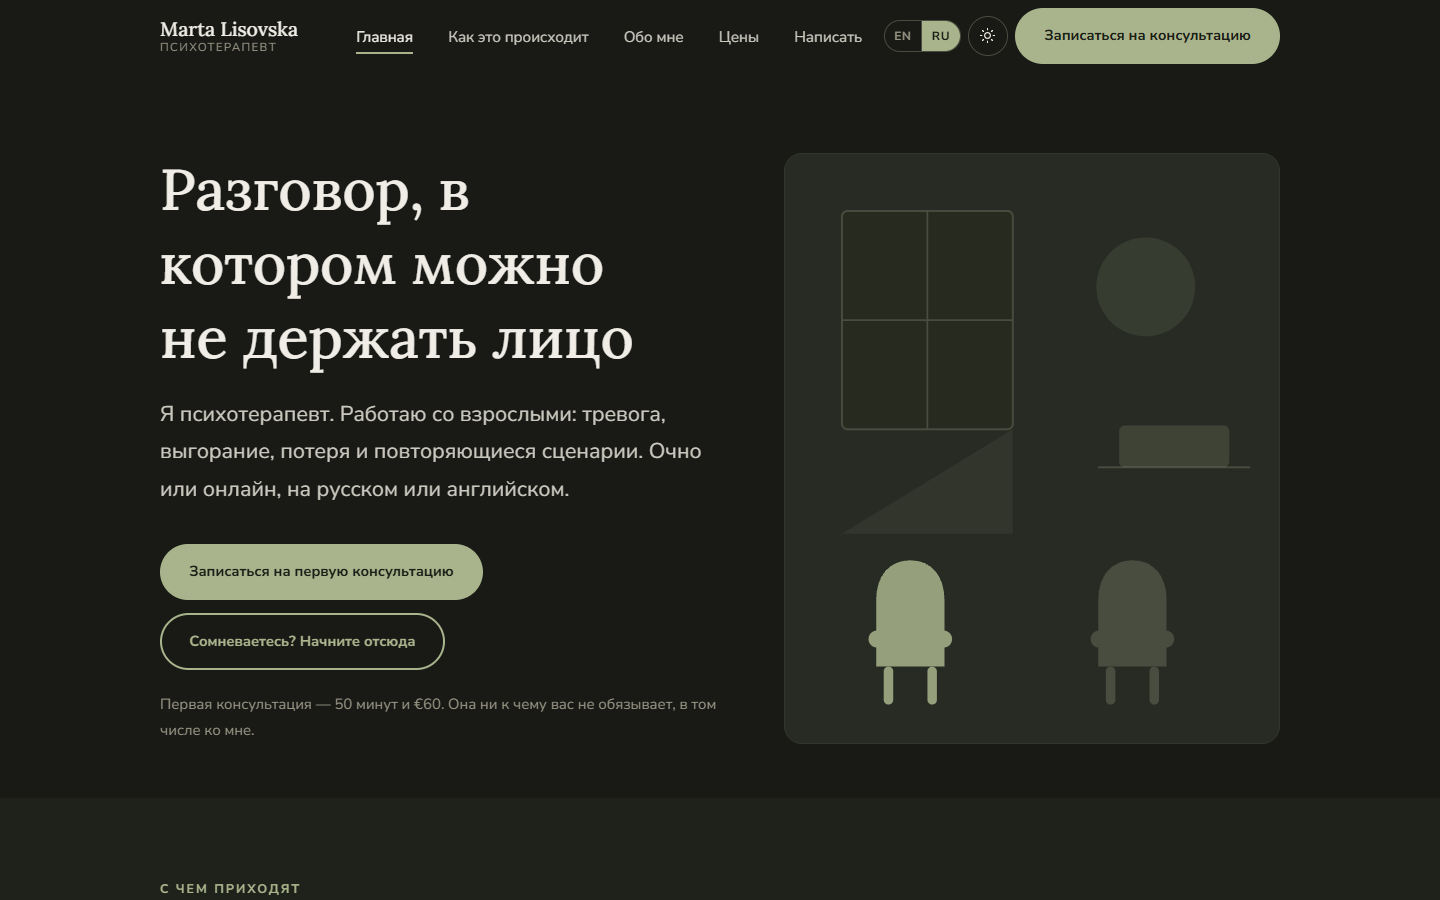
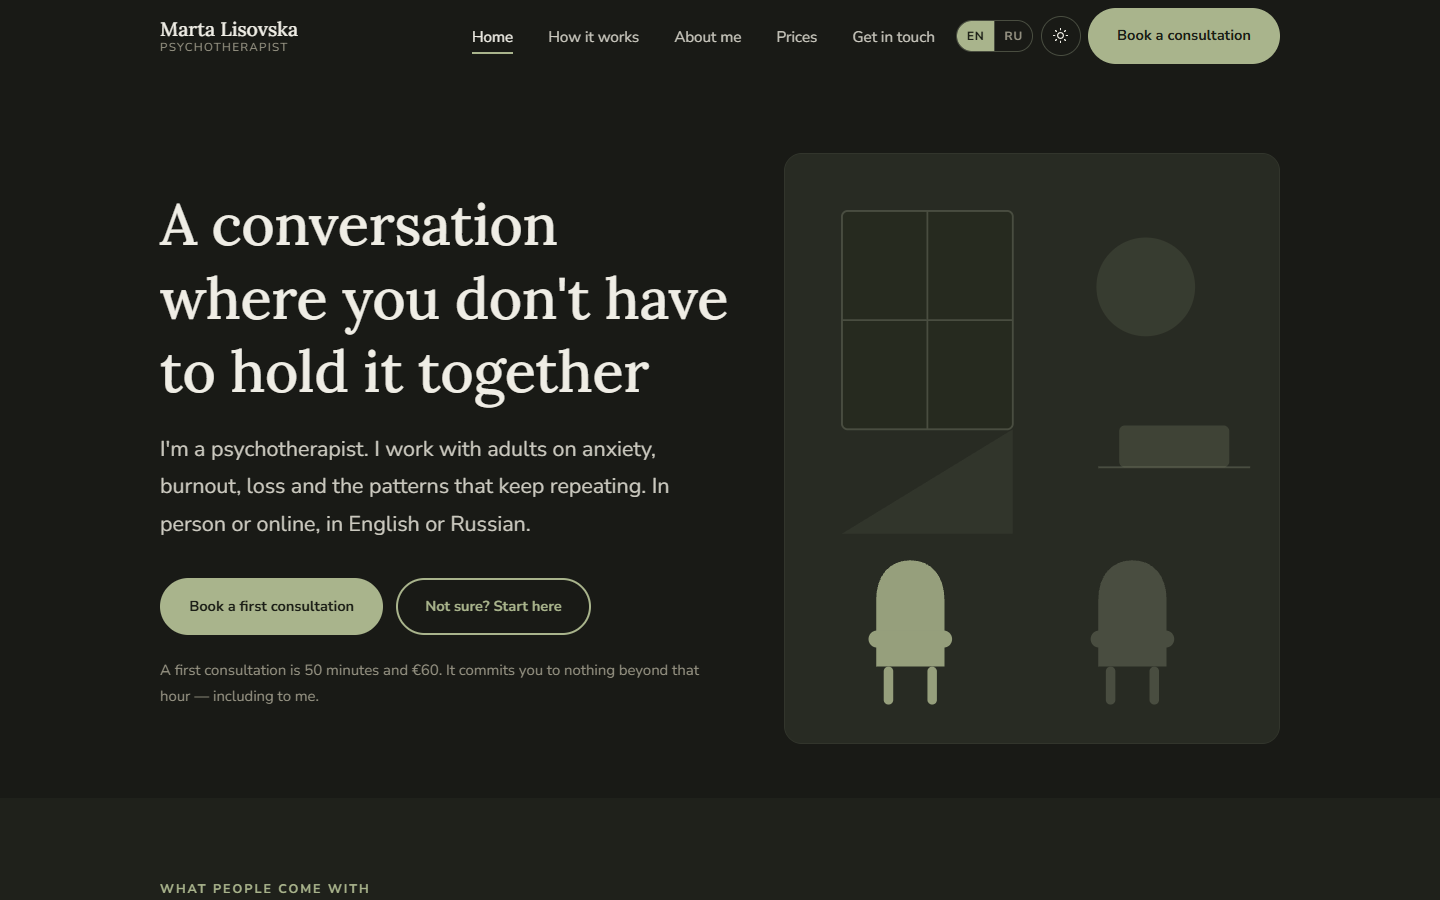
Site files, README and preview

diff --git a/about.html b/about.html
@@ -24,7 +24,7 @@
   var p = location.search.match(/[?&]lang=([a-z]{2})/i);
   if (p && langs.indexOf(p[1].toLowerCase()) > -1) lang = p[1].toLowerCase();
   if (!lang) { try { var s = localStorage.getItem('ml-lang'); if (langs.indexOf(s) > -1) lang = s; } catch (e) {} }
-  if (!lang) { lang = /^ru/i.test(navigator.language || '') ? 'ru' : 'en'; }
+  if (!lang) { lang = 'en'; }
   d.setAttribute('data-lang', lang);
   if (lang !== 'en') { d.className += ' i18n-pending'; setTimeout(function () { d.classList.remove('i18n-pending'); }, 1200); }
   try { var t = localStorage.getItem('ml-theme'); if (t) d.setAttribute('data-theme', t); } catch (e) {}

diff --git a/contact.html b/contact.html
@@ -24,7 +24,7 @@
   var p = location.search.match(/[?&]lang=([a-z]{2})/i);
   if (p && langs.indexOf(p[1].toLowerCase()) > -1) lang = p[1].toLowerCase();
   if (!lang) { try { var s = localStorage.getItem('ml-lang'); if (langs.indexOf(s) > -1) lang = s; } catch (e) {} }
-  if (!lang) { lang = /^ru/i.test(navigator.language || '') ? 'ru' : 'en'; }
+  if (!lang) { lang = 'en'; }
   d.setAttribute('data-lang', lang);
   if (lang !== 'en') { d.className += ' i18n-pending'; setTimeout(function () { d.classList.remove('i18n-pending'); }, 1200); }
   try { var t = localStorage.getItem('ml-theme'); if (t) d.setAttribute('data-theme', t); } catch (e) {}

diff --git a/index.html b/index.html
@@ -24,7 +24,7 @@
   var p = location.search.match(/[?&]lang=([a-z]{2})/i);
   if (p && langs.indexOf(p[1].toLowerCase()) > -1) lang = p[1].toLowerCase();
   if (!lang) { try { var s = localStorage.getItem('ml-lang'); if (langs.indexOf(s) > -1) lang = s; } catch (e) {} }
-  if (!lang) { lang = /^ru/i.test(navigator.language || '') ? 'ru' : 'en'; }
+  if (!lang) { lang = 'en'; }
   d.setAttribute('data-lang', lang);
   if (lang !== 'en') { d.className += ' i18n-pending'; setTimeout(function () { d.classList.remove('i18n-pending'); }, 1200); }
   try { var t = localStorage.getItem('ml-theme'); if (t) d.setAttribute('data-theme', t); } catch (e) {}
